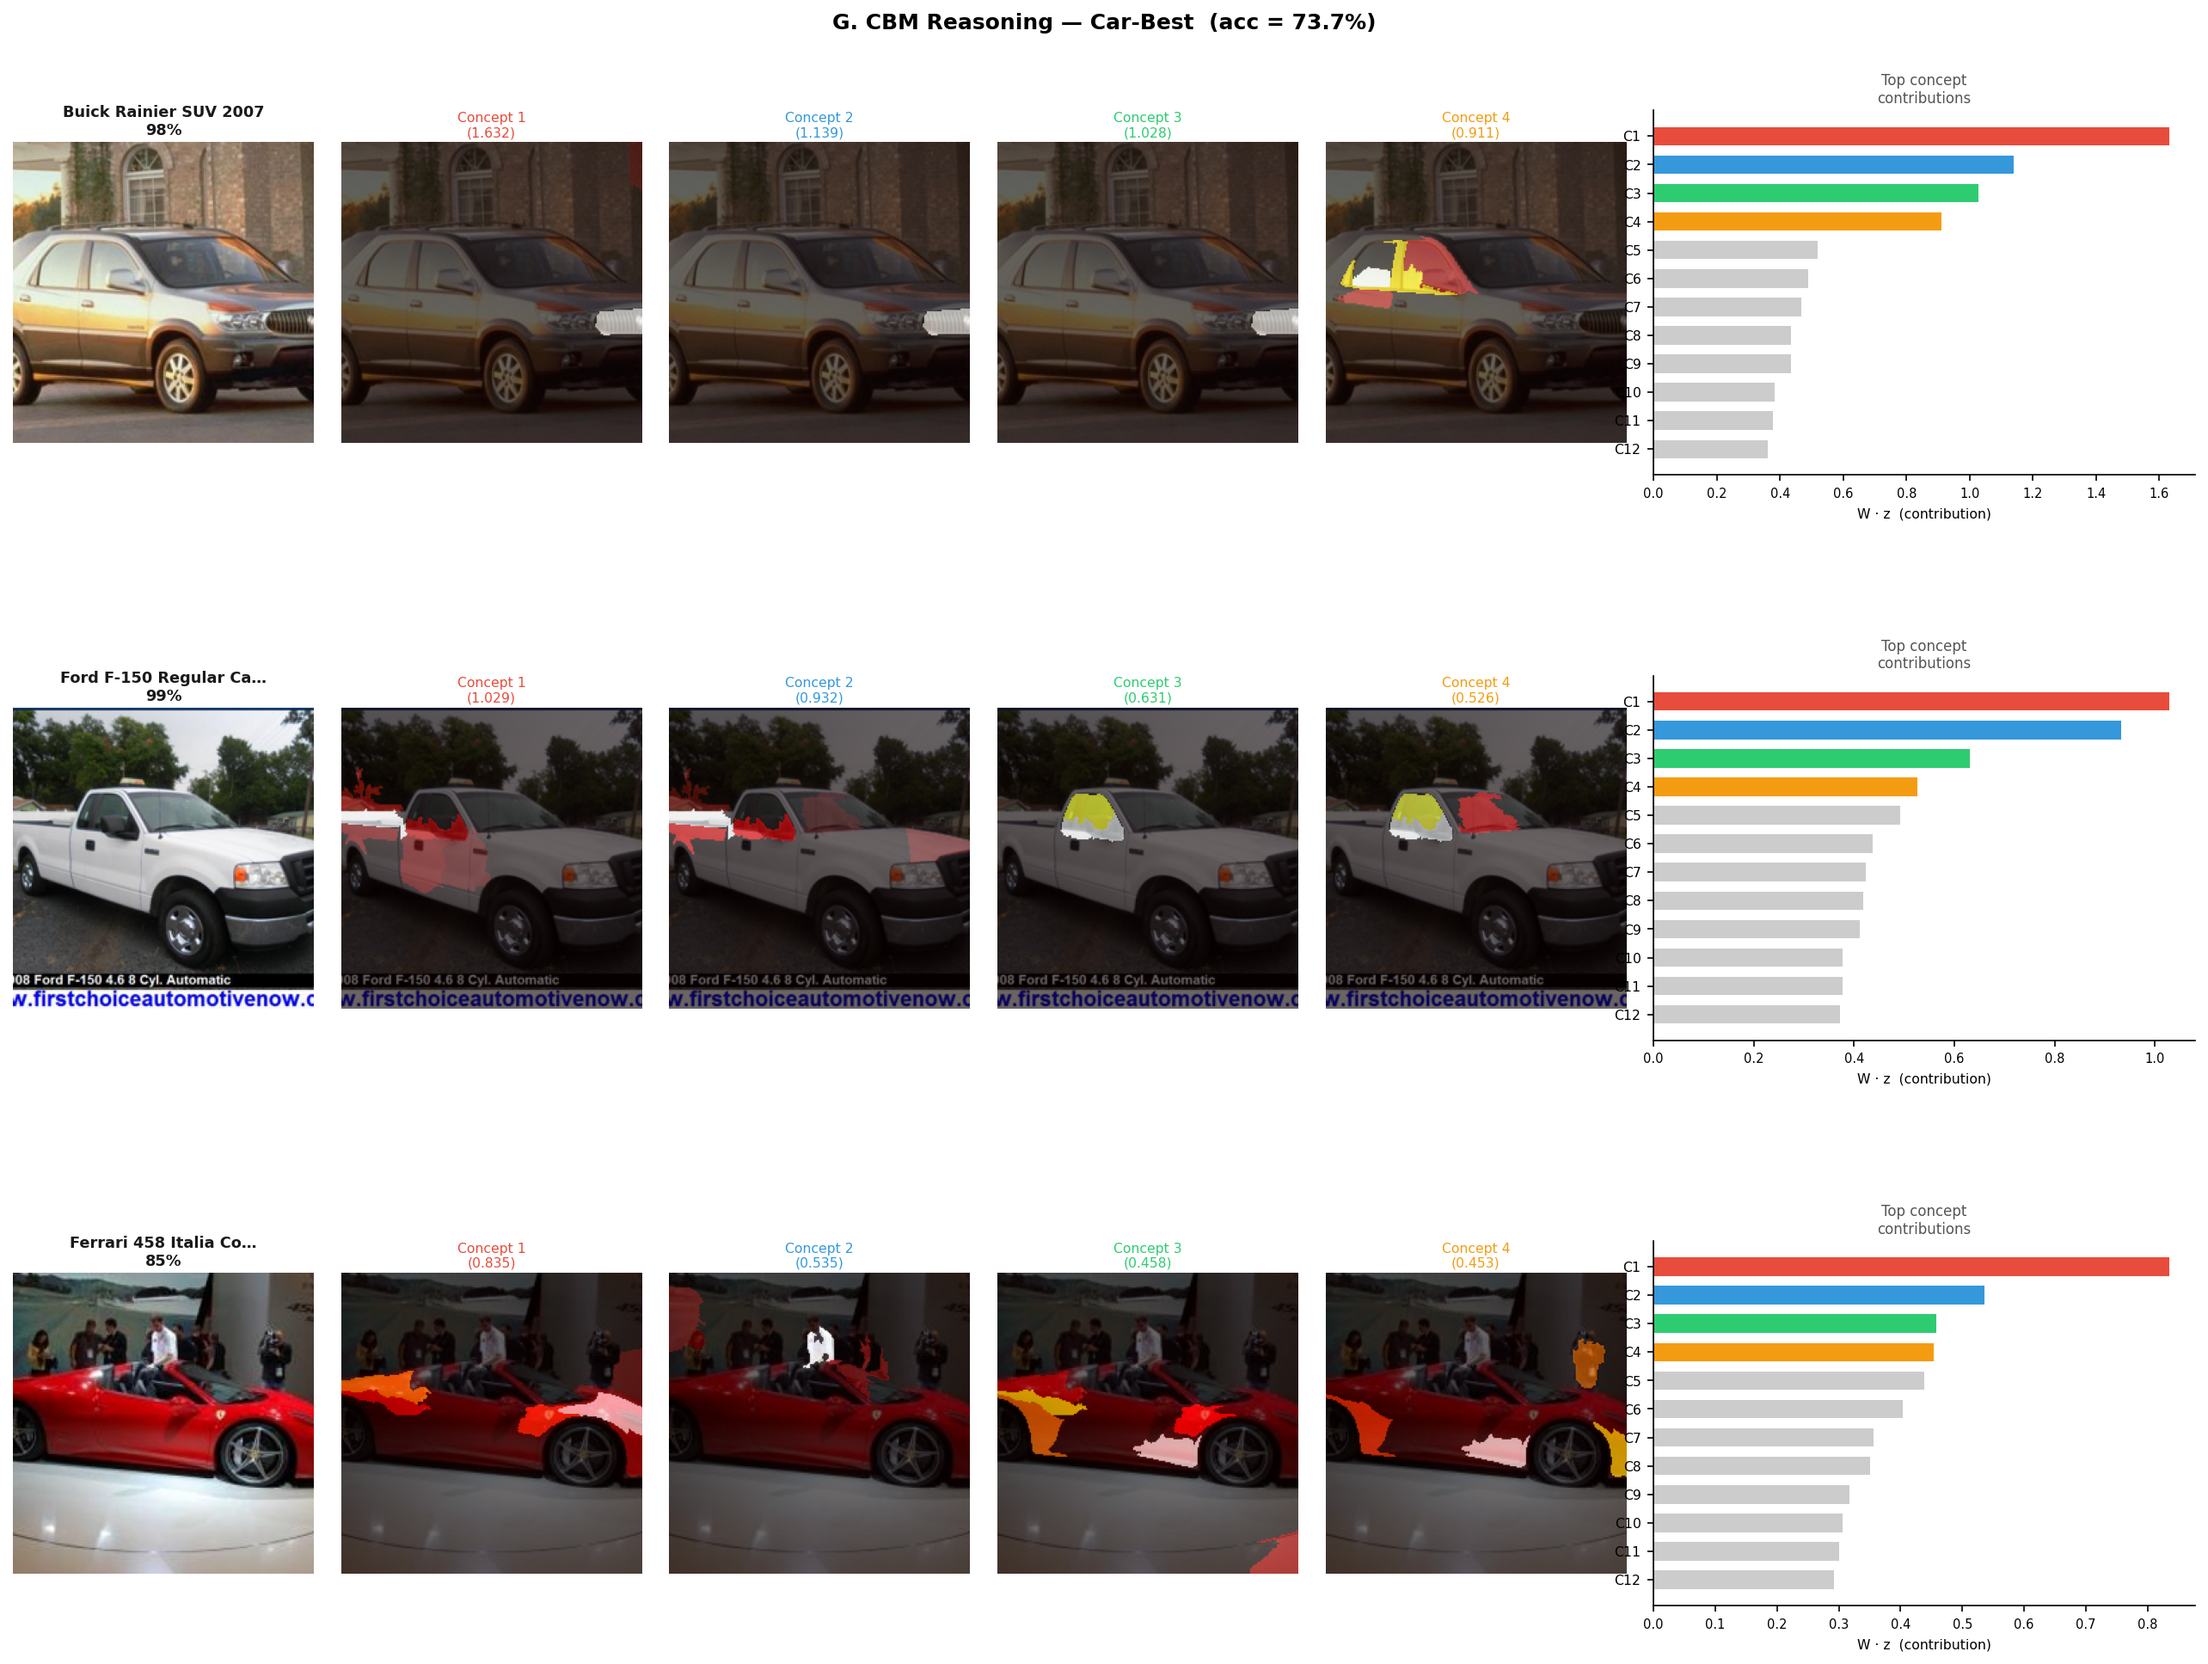
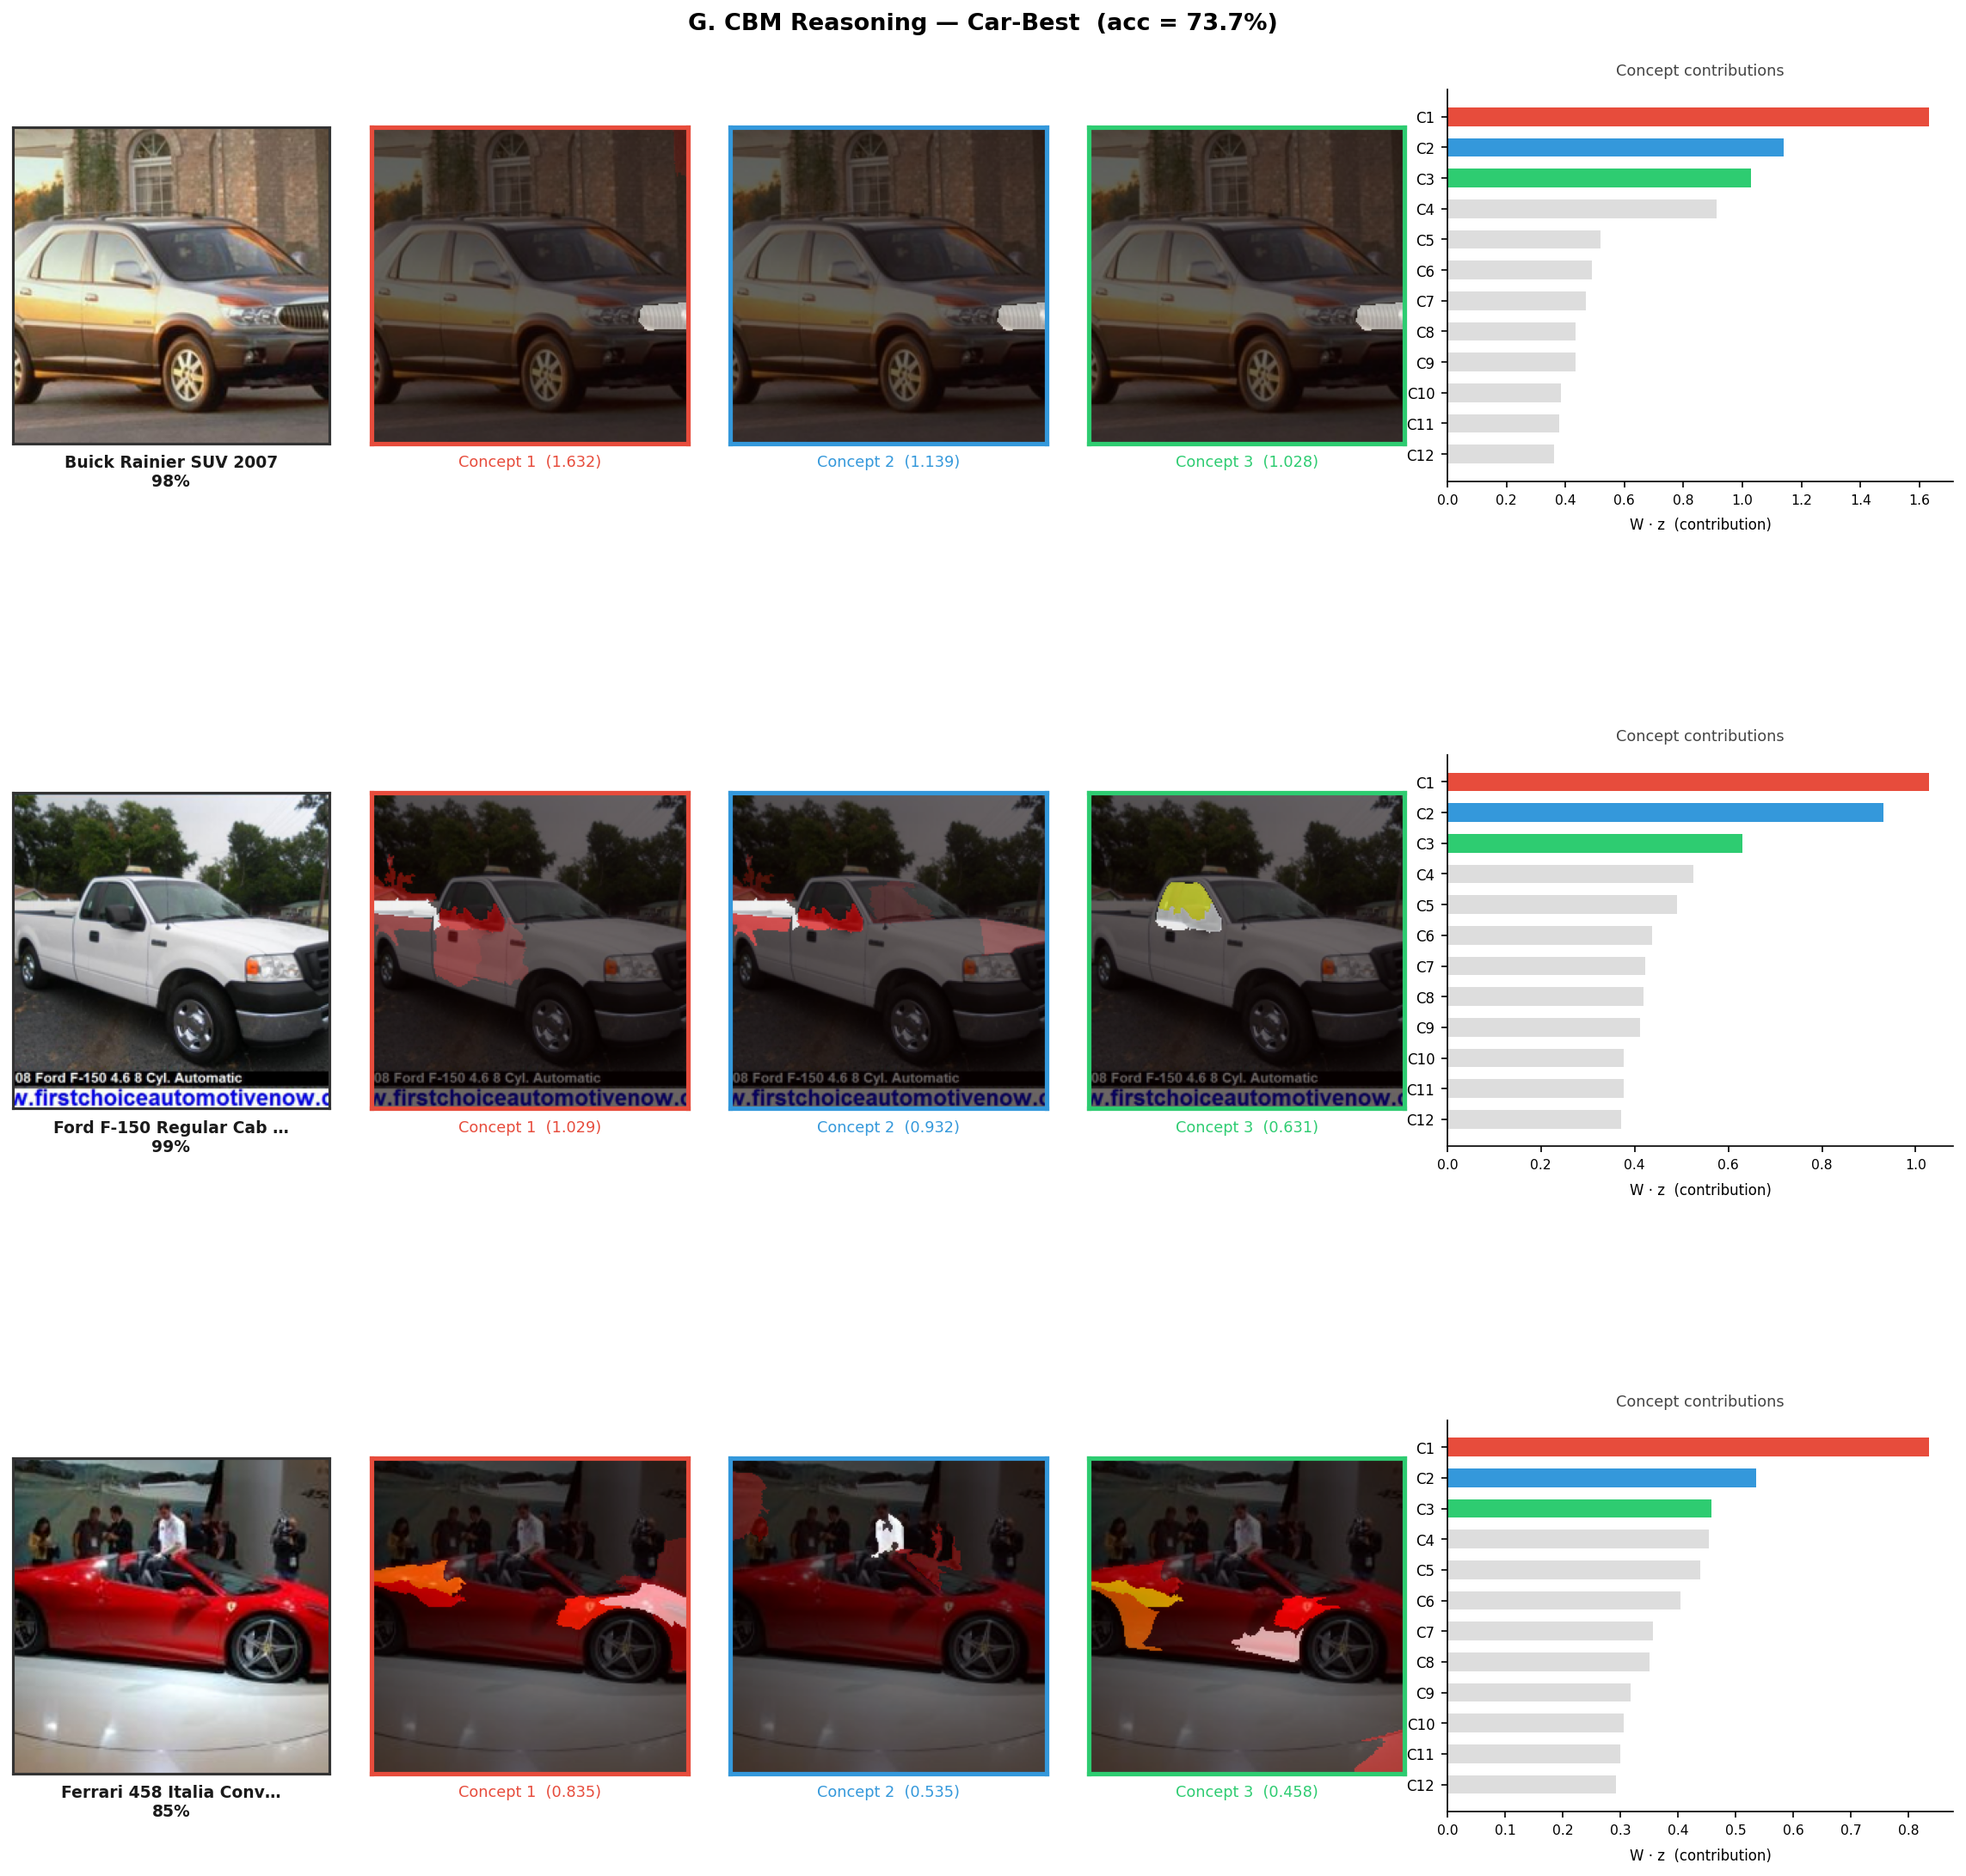
figures: update Figure G to top-3 concepts, labels below panels
- Reduced from 4 to 3 concept heatmap columns per row
- All labels placed via set_xlabel (no overlap with images)
- Added qualitative results grid (fig_G_results_{car,flowers})

diff --git a/paper_scripts/gen_fig_G_results.py b/paper_scripts/gen_fig_G_results.py
@@ -238,16 +238,20 @@ def scan_dataset(run_dir, dataset, class_names, device,
 
 # ─────────────────────────────────────────────────────────────────────────────
 def make_reasoning_figure(run_dir, dataset, indices, class_names, out_path,
-                          title, device, n_concepts=4):
+                          title, device, n_concepts=3):
     """
-    For each index: [original | concept1 | concept2 | concept3 | concept4 | bar chart]
+    For each index: [original | concept1 | concept2 | concept3 | bar chart]
+    Labels sit below each panel, not overlapping the image.
     """
     backbone, hook, feat_norm, sae, head, cfg = load_model(run_dir, device)
     n = len(indices)
 
-    fig = plt.figure(figsize=(18, 4.2 * n))
-    outer = gridspec.GridSpec(n, 1, figure=fig, hspace=0.55,
-                              left=0.03, right=0.97, top=0.95, bottom=0.03)
+    # Taller rows + more bottom margin so xlabel text has room
+    fig = plt.figure(figsize=(16, 5.0 * n))
+    outer = gridspec.GridSpec(n, 1, figure=fig, hspace=0.70,
+                              left=0.03, right=0.97, top=0.93, bottom=0.04)
+
+    colors = ['#e74c3c', '#3498db', '#2ecc71', '#f39c12', '#9b59b6']
 
     for row, idx in enumerate(indices):
         img_t, label = dataset[idx]
@@ -256,62 +260,64 @@ def make_reasoning_figure(run_dir, dataset, indices, class_names, out_path,
             img_t, img_pil, backbone, hook, feat_norm, sae, head, cfg, device)
 
         cn = class_names[pred] if pred < len(class_names) else str(pred)
+        short_cn = cn if len(cn) <= 24 else cn[:23] + '…'
 
-        # Top concept indices by contribution W_y[k] * z_pool[k]
-        contrib  = (W_y * z_pool_cpu).numpy()
-        top_idx  = np.argsort(contrib)[::-1][:max(n_concepts, 12)]
+        contrib     = (W_y * z_pool_cpu).numpy()
+        top_idx     = np.argsort(contrib)[::-1][:max(n_concepts, 12)]
         top_contrib = contrib[top_idx]
 
-        # Inner grid: [orig | c1 | c2 | c3 | c4 | bar]
+        # Inner grid: [orig | c1 | c2 | c3 | bar]
         inner = gridspec.GridSpecFromSubplotSpec(
             1, n_concepts + 2, subplot_spec=outer[row],
-            width_ratios=[1] * (n_concepts + 1) + [1.8],
-            wspace=0.08)
+            width_ratios=[1] * (n_concepts + 1) + [1.6],
+            wspace=0.12)
 
-        # Original image
+        # ── Original image ────────────────────────────────────────────────────
         ax0 = fig.add_subplot(inner[0])
         ax0.imshow(img_pil)
-        ax0.axis('off')
-        short_cn = cn if len(cn) <= 22 else cn[:21] + '…'
-        ax0.set_title(f'{short_cn}\n{conf:.0%}', fontsize=8.5,
-                      fontweight='bold', color='#1a1a1a', pad=4)
+        ax0.set_xticks([]); ax0.set_yticks([])
+        for sp in ax0.spines.values():
+            sp.set_visible(True); sp.set_edgecolor('#333'); sp.set_linewidth(1.5)
+        # Label below the image via xlabel
+        ax0.set_xlabel(f'{short_cn}\n{conf:.0%}',
+                       fontsize=9, fontweight='bold', color='#1a1a1a',
+                       labelpad=6)
 
-        # Concept heatmap panels
-        colors = ['#e74c3c', '#3498db', '#2ecc71', '#f39c12',
-                  '#9b59b6', '#1abc9c', '#e67e22', '#e91e63']
+        # ── Concept heatmap panels ─────────────────────────────────────────────
         for ci in range(n_concepts):
             kid  = int(top_idx[ci])
             cval = float(top_contrib[ci])
+            c    = colors[ci % len(colors)]
             ax   = fig.add_subplot(inner[ci + 1])
             overlay = concept_heatmap_overlay(img_pil, slic_224, z_sp_cpu,
                                               kid, cfg.n_segments)
             ax.imshow(overlay)
-            ax.axis('off')
-            c = colors[ci % len(colors)]
+            ax.set_xticks([]); ax.set_yticks([])
             for sp in ax.spines.values():
                 sp.set_visible(True); sp.set_edgecolor(c); sp.set_linewidth(2.5)
-            ax.set_title(f'Concept {ci+1}\n({cval:.3f})', fontsize=7.5,
-                         color=c, pad=3)
+            ax.set_xlabel(f'Concept {ci + 1}  ({cval:.3f})',
+                          fontsize=8.5, color=c, labelpad=6)
 
-        # Contribution bar chart (top-12)
+        # ── Contribution bar chart ─────────────────────────────────────────────
         ax_bar = fig.add_subplot(inner[n_concepts + 1])
-        n_bars = min(12, len(top_idx))
-        bar_vals = top_contrib[:n_bars]
-        bar_labels = [f'C{i+1}' for i in range(n_bars)]
-        bar_colors = [colors[i % len(colors)] if i < n_concepts else '#ccc'
-                      for i in range(n_bars)]
-        bars = ax_bar.barh(range(n_bars)[::-1], bar_vals,
-                           color=bar_colors, edgecolor='none', height=0.65)
+        n_bars      = min(12, len(top_idx))
+        bar_vals    = top_contrib[:n_bars]
+        bar_labels  = [f'C{i+1}' for i in range(n_bars)]
+        bar_colors  = [colors[i % len(colors)] if i < n_concepts else '#ddd'
+                       for i in range(n_bars)]
+        ax_bar.barh(range(n_bars)[::-1], bar_vals,
+                    color=bar_colors, edgecolor='none', height=0.6)
         ax_bar.set_yticks(range(n_bars)[::-1])
-        ax_bar.set_yticklabels(bar_labels, fontsize=7.5)
-        ax_bar.set_xlabel('W · z  (contribution)', fontsize=7.5)
+        ax_bar.set_yticklabels(bar_labels, fontsize=8)
+        ax_bar.set_xlabel('W · z  (contribution)', fontsize=8, labelpad=6)
         ax_bar.spines[['top', 'right']].set_visible(False)
-        ax_bar.tick_params(axis='x', labelsize=7)
-        ax_bar.set_title('Top concept\ncontributions', fontsize=8, pad=4, color='#555')
+        ax_bar.tick_params(axis='x', labelsize=7.5)
+        ax_bar.set_title('Concept contributions', fontsize=8.5,
+                         pad=8, color='#444')
 
         print(f'  row {row}: idx={idx}  {cn[:40]:<40}  conf={conf:.1%}')
 
-    fig.suptitle(title, fontsize=12, fontweight='bold', y=1.01)
+    fig.suptitle(title, fontsize=13, fontweight='bold', y=0.97)
     plt.savefig(out_path, dpi=150, bbox_inches='tight')
     plt.close(fig)
     print(f'Saved -> {out_path}')
